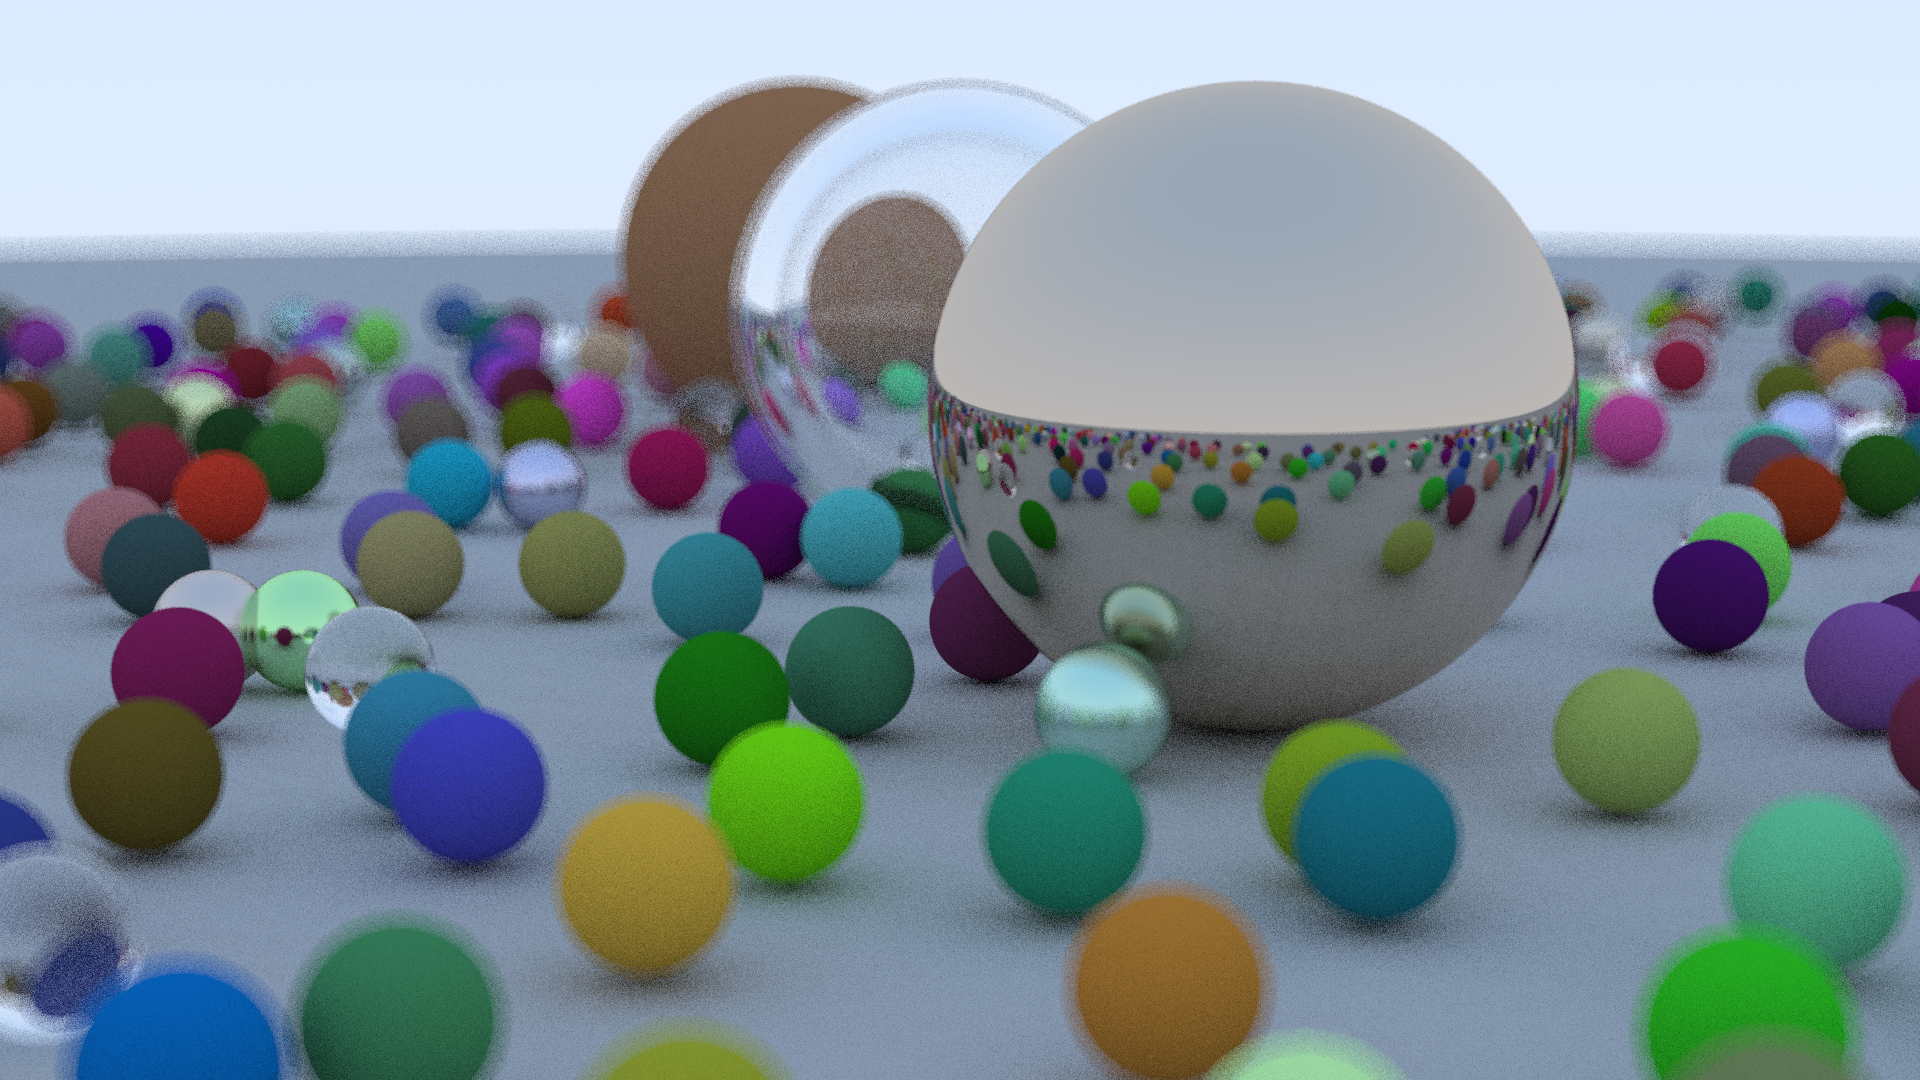
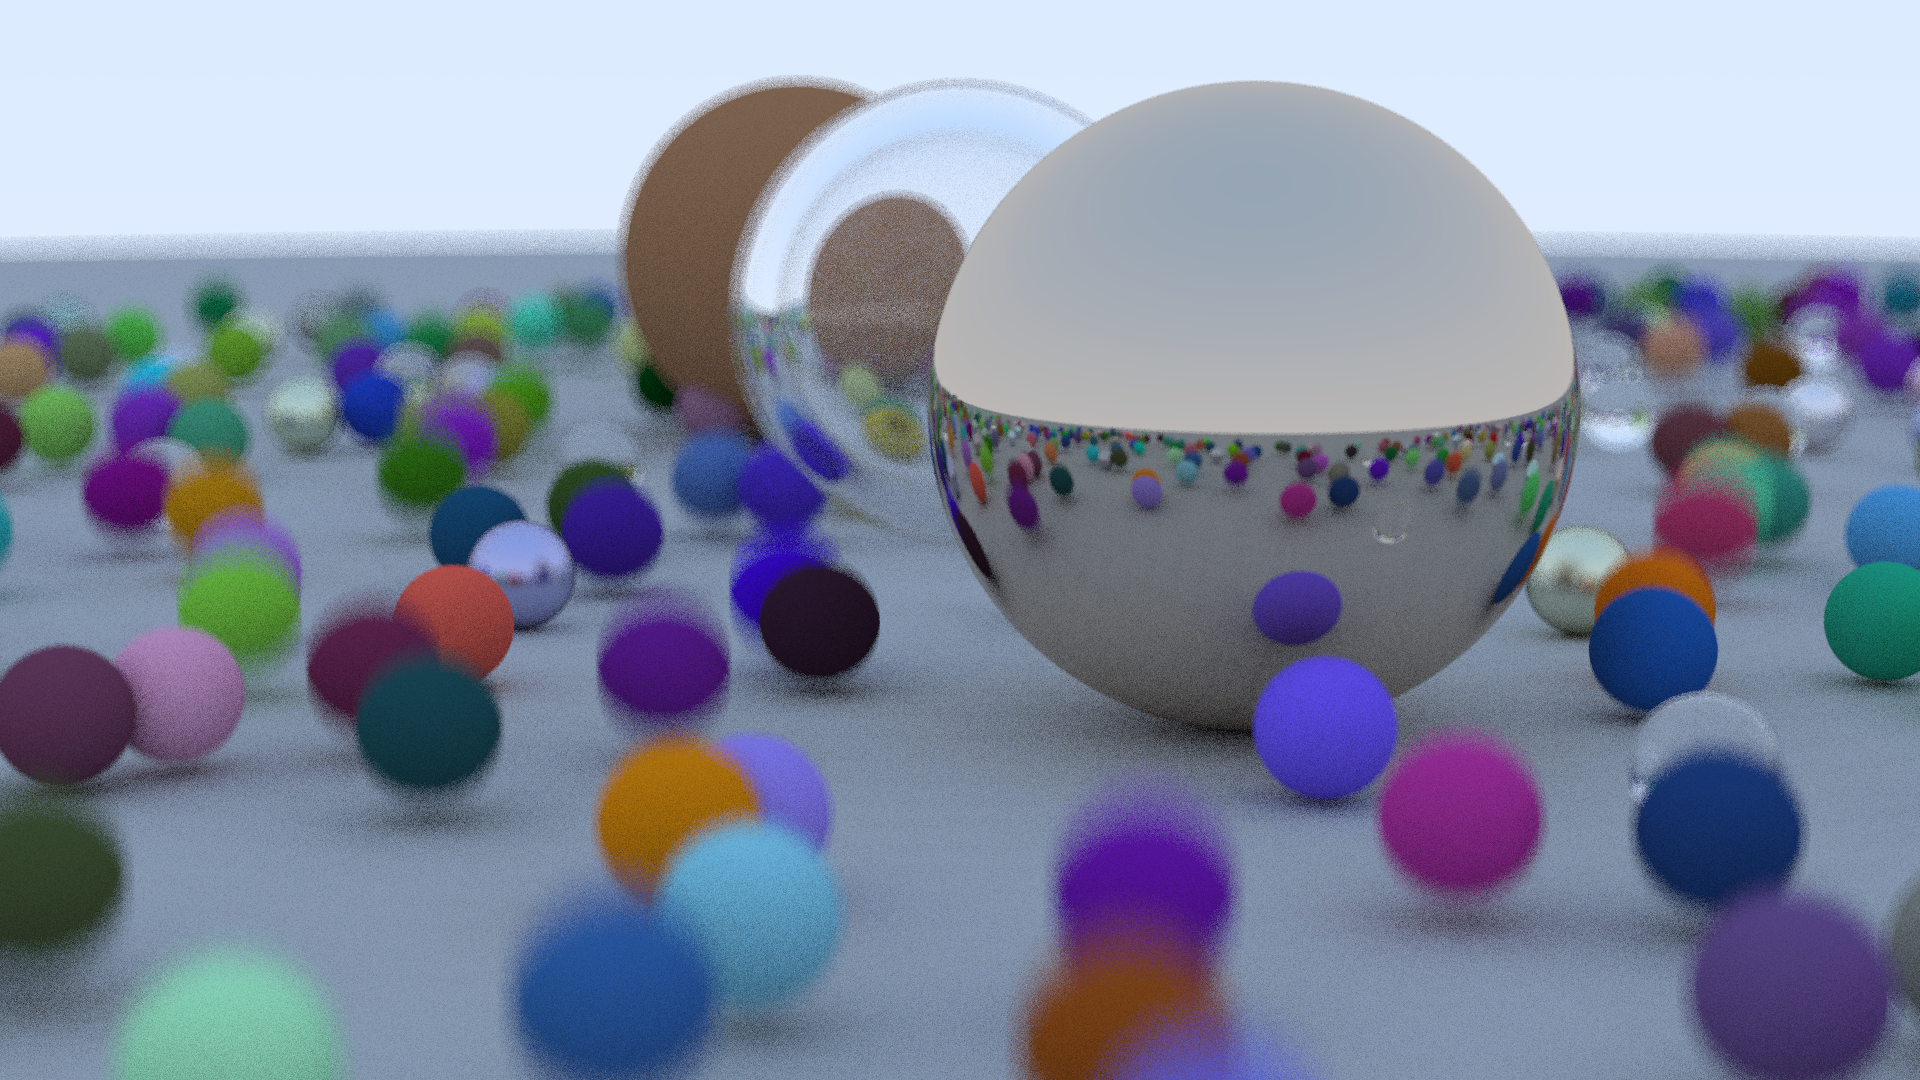
added motion blur

diff --git a/kernels/src/lib.rs b/kernels/src/lib.rs
@@ -119,30 +119,12 @@ fn render_pixel_v2(
     let mut cur_depth = 0;
 
     // To satisfy the compiler, we need to initialize `current_ray` here.
-    let mut current_ray = Ray::new(Vec3::zero(), Vec3::zero());
+    let mut current_ray = Ray::new(Vec3::zero(), Vec3::zero(), 0.0);
 
-    let mut ret = None;
     let mut current_color = Color::white();
     while cur_sample < options.samples_per_pixel {
         if cur_depth == 0 {
-            // Calculate the pixel sample location.
-            let offset = Vec3::sample_square(rng);
-            let pixel_sample = &options.pixel00_loc
-                + (&options.pixel_delta_u * (i as Real + offset.x))
-                + (&options.pixel_delta_v * (j as Real + offset.y));
-
-            // Apply defocus if enabled
-            let ray_origin = &options.origin
-                + if options.defocus_angle > 0.0 {
-                    let offset = Vec3::random_in_unit_disk(rng);
-                    &options.defocus_disk_u * offset.x + &options.defocus_disk_v * offset.y
-                } else {
-                    Vec3::zero()
-                };
-
-            let ray_direction = pixel_sample - &ray_origin;
-            current_ray = Ray::new(ray_origin, ray_direction);
-            ret = None;
+            current_ray = Ray::get_ray(i, j, options, rng);
             current_color = Color::white();
         }
 
@@ -158,25 +140,25 @@ fn render_pixel_v2(
                 current_ray = scattered_ray;
                 current_color = current_color * attenuation;
                 cur_depth += 1;
+
+                if cur_depth >= options.max_depth {
+                    // max depth is reached, don't gather any light
+                    cur_depth = 0;
+                    cur_sample += 1;
+                }
             } else {
-                cur_depth = options.max_depth; // Ray was absorbed
+                // Ray was absorbed
+                cur_depth = 0;
+                cur_sample += 1;
             }
         } else {
             let unit_direction = current_ray.direction.normalize();
             let blue = Color::new(0.5, 0.7, 1.0);
             let white = Color::new(1.0, 1.0, 1.0);
             let t = 0.5 * (unit_direction.y + 1.0);
-            ret = Some(white.lerp(&blue, t) * &current_color);
-            cur_depth = options.max_depth;
-        }
 
-        if cur_depth >= options.max_depth {
-            // Reset for the next sample
-            if let Some(color) = &ret {
-                pixel_color += color
-            } else {
-                // no more light is gathered
-            }
+            // update color
+            pixel_color += white.lerp(&blue, t) * &current_color;
             cur_depth = 0;
             cur_sample += 1;
         }

diff --git a/src/bin/render.rs b/src/bin/render.rs
@@ -22,7 +22,7 @@ fn main() -> Result<()> {
     let mut world = HitableListBuilder::new();
 
     let ground_material = Lambertian::new(Color::new(0.5, 0.5, 0.5));
-    world.add(Sphere::new(
+    world.add(Sphere::new_static(
         Point3::new(0.0, -1000.0, 0.0),
         1000.0,
         ground_material,
@@ -45,33 +45,50 @@ fn main() -> Result<()> {
                     // diffuse
                     let albedo = Color::random(&mut rng) * Color::random(&mut rng);
                     let sphere_material = Lambertian::new(albedo);
-                    world.add(Sphere::new(center, 0.2, sphere_material));
+                    let end = center + Vec3::new(0.0, random_single(0.0..0.2, &mut rng), 0.0);
+                    world.add(Sphere::new_moving(center, end, 0.2, sphere_material));
                 } else if choose_mat < 0.95 {
                     // metal
                     let albedo = Color::random(&mut rng) / 2.0 + 0.5;
                     let fuzz = random_single(0.0..0.5, &mut rng);
                     let sphere_material = Metal::new(albedo, fuzz);
-                    world.add(Sphere::new(center, 0.2, sphere_material));
+                    world.add(Sphere::new_static(center, 0.2, sphere_material));
                 } else {
                     // glass
                     let sphere_material = Dielectric::new(1.5);
-                    world.add(Sphere::new(center, 0.2, sphere_material));
+                    world.add(Sphere::new_static(center, 0.2, sphere_material));
                 }
             }
         }
     }
 
     let material1a = Dielectric::new(1.5);
-    world.add(Sphere::new(Point3::new(0.0, 1.0, 0.0), 1.0, material1a));
+    world.add(Sphere::new_static(
+        Point3::new(0.0, 1.0, 0.0),
+        1.0,
+        material1a,
+    ));
 
     let material1b = Dielectric::new(1.0 / 1.5);
-    world.add(Sphere::new(Point3::new(0.0, 1.0, 0.0), 0.8, material1b));
+    world.add(Sphere::new_static(
+        Point3::new(0.0, 1.0, 0.0),
+        0.8,
+        material1b,
+    ));
 
     let material2 = Lambertian::new(Color::new(0.4, 0.2, 0.1));
-    world.add(Sphere::new(Point3::new(-4.0, 1.0, 0.0), 1.0, material2));
+    world.add(Sphere::new_static(
+        Point3::new(-4.0, 1.0, 0.0),
+        1.0,
+        material2,
+    ));
 
     let material3 = Metal::new(Color::new(0.7, 0.6, 0.5), 0.0);
-    world.add(Sphere::new(Point3::new(4.0, 1.0, 0.0), 1.0, material3));
+    world.add(Sphere::new_static(
+        Point3::new(4.0, 1.0, 0.0),
+        1.0,
+        material3,
+    ));
 
     // Camera setup
     let camera = Camera::new(options.render);

diff --git a/kernels/src/sphere.rs b/kernels/src/sphere.rs
@@ -4,7 +4,7 @@ use crate::{
     hitable::{HitKind, HitRecord, Hitable},
     materials::MaterialKind,
     ray::Ray,
-    vec3::{Point3, Real},
+    vec3::{Point3, Real, Vec3},
 };
 
 #[cfg(target_os = "cuda")]
@@ -14,15 +14,29 @@ use cust::DeviceCopy;
 
 #[cfg_attr(not(target_os = "cuda"), derive(Clone, Copy, DeviceCopy))]
 pub struct Sphere {
-    center: Point3,
+    center: Ray,
     radius: Real,
     mat: MaterialKind,
 }
 
 impl Sphere {
-    pub fn new<'a>(center: Point3, radius: Real, material: MaterialKind) -> HitKind<'a> {
+    pub fn new_static<'a>(center: Point3, radius: Real, material: MaterialKind) -> HitKind<'a> {
         HitKind::from(Sphere {
-            center,
+            center: Ray::new(center, Vec3::zero(), 0.0),
+            radius,
+            mat: material,
+        })
+    }
+
+    pub fn new_moving<'a>(
+        start: Point3,
+        end: Point3,
+        radius: Real,
+        material: MaterialKind,
+    ) -> HitKind<'a> {
+        let velocity = end - &start;
+        HitKind::from(Sphere {
+            center: Ray::new(start, velocity, 0.0),
             radius,
             mat: material,
         })
@@ -31,7 +45,9 @@ impl Sphere {
 
 impl Hitable for Sphere {
     fn hit<'a>(&'a self, ray: &Ray, range: &Range<Real>) -> Option<HitRecord<'a>> {
-        let oc = &self.center - &ray.origin;
+        let actual_center = self.center.at(ray.time);
+
+        let oc = &actual_center - &ray.origin;
         let a = ray.direction.dot(&ray.direction);
         let b = oc.dot(&ray.direction);
         let c = oc.length_squared() - self.radius * self.radius;
@@ -46,7 +62,7 @@ impl Hitable for Sphere {
                 }
             }
             let p = ray.at(t);
-            let mut normal = (&p - &self.center).normalize();
+            let mut normal = (&p - &actual_center).normalize();
 
             let is_front_face = normal.dot(&ray.direction) < 0.0;
             if !is_front_face {

diff --git a/kernels/src/ray.rs b/kernels/src/ray.rs
@@ -3,18 +3,26 @@ use crate::{
     color::Color,
     hitable::{HitKind, Hitable},
     materials::Material,
-    random::Random,
+    random::{Random, random_single},
     vec3::{Point3, Real, Vec3},
 };
 
+#[cfg(not(target_os = "cuda"))]
+use cust::DeviceCopy;
+#[cfg_attr(not(target_os = "cuda"), derive(Clone, Copy, DeviceCopy))]
 pub struct Ray {
     pub origin: Point3,
     pub direction: Vec3,
+    pub time: Real,
 }
 
 impl Ray {
-    pub fn new(origin: Point3, direction: Vec3) -> Self {
-        Ray { origin, direction }
+    pub fn new(origin: Point3, direction: Vec3, time: Real) -> Self {
+        Ray {
+            origin,
+            direction,
+            time,
+        }
     }
 
     pub fn origin(&self) -> &Point3 {
@@ -81,6 +89,6 @@ impl Ray {
             };
 
         let ray_direction = pixel_sample - &ray_origin;
-        Ray::new(ray_origin, ray_direction)
+        Ray::new(ray_origin, ray_direction, random_single(0.0..1.0, rng))
     }
 }

diff --git a/kernels/src/materials/lambertian.rs b/kernels/src/materials/lambertian.rs
@@ -21,17 +21,12 @@ impl Lambertian {
     }
 }
 impl Material for Lambertian {
-    fn scatter(
-        &self,
-        _ray: &Ray,
-        hit_record: HitRecord,
-        rng: &mut Random,
-    ) -> Option<(Ray, &Color)> {
+    fn scatter(&self, ray: &Ray, hit_record: HitRecord, rng: &mut Random) -> Option<(Ray, &Color)> {
         let mut direction = &hit_record.normal + Vec3::random_unit(rng);
         if direction.near_zero() {
             direction = hit_record.normal; // Handle near-zero direction to avoid NaN
         }
-        let new_ray = Ray::new(hit_record.p, direction);
+        let new_ray = Ray::new(hit_record.p, direction, ray.time);
         Some((new_ray, &self.albedo))
     }
 }

diff --git a/kernels/src/materials/metal.rs b/kernels/src/materials/metal.rs
@@ -28,7 +28,7 @@ impl Material for Metal {
         if direction.near_zero() || direction.dot(&hit_record.normal) < 0.0 {
             return None; // Ray is absorbed
         }
-        let new_ray = Ray::new(hit_record.p, direction);
+        let new_ray = Ray::new(hit_record.p, direction, ray.time);
         Some((new_ray, &self.albedo))
     }
 }

diff --git a/kernels/src/materials/dielectric.rs b/kernels/src/materials/dielectric.rs
@@ -56,7 +56,7 @@ impl Material for Dielectric {
             unit_direction.refract(&hit.normal, ri)
         };
 
-        let scattered = Ray::new(hit.p, direction);
+        let scattered = Ray::new(hit.p, direction, ray.time);
         Some((scattered, &self.albedo))
     }
 }
